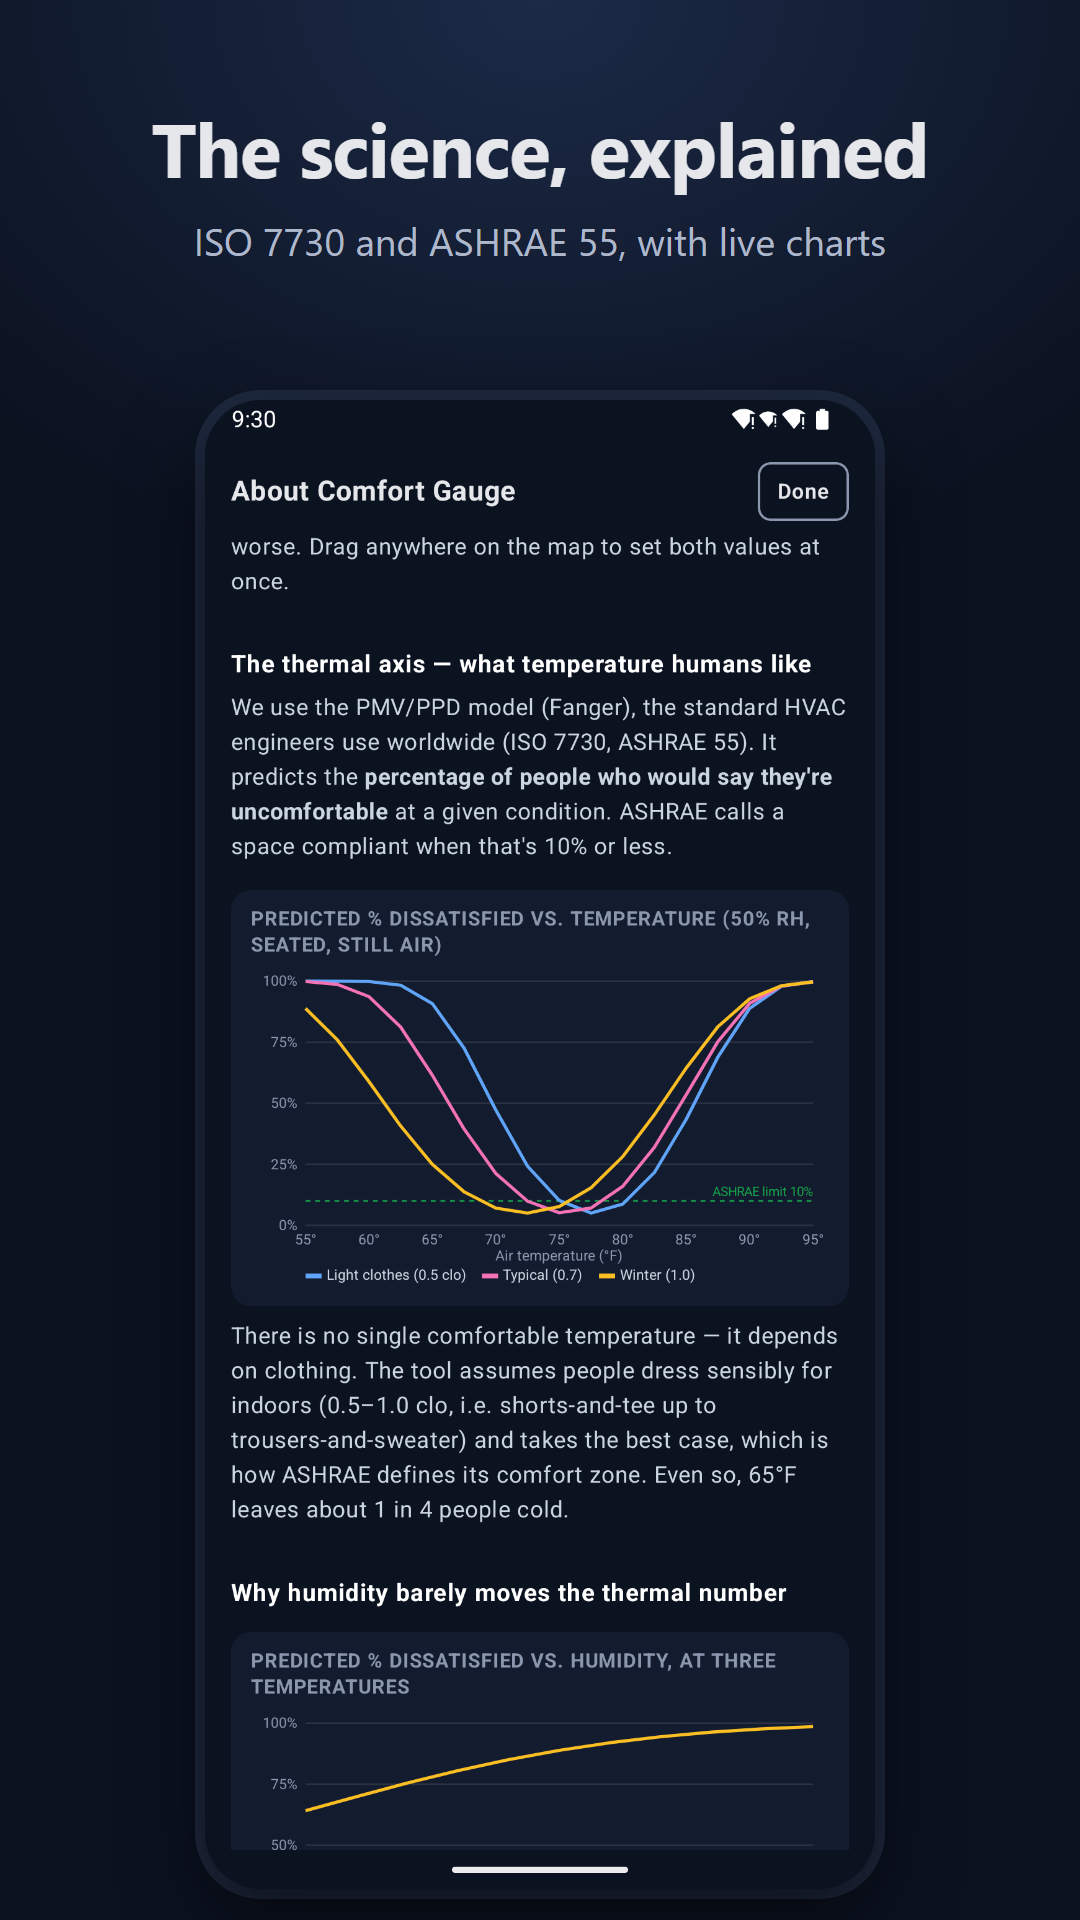
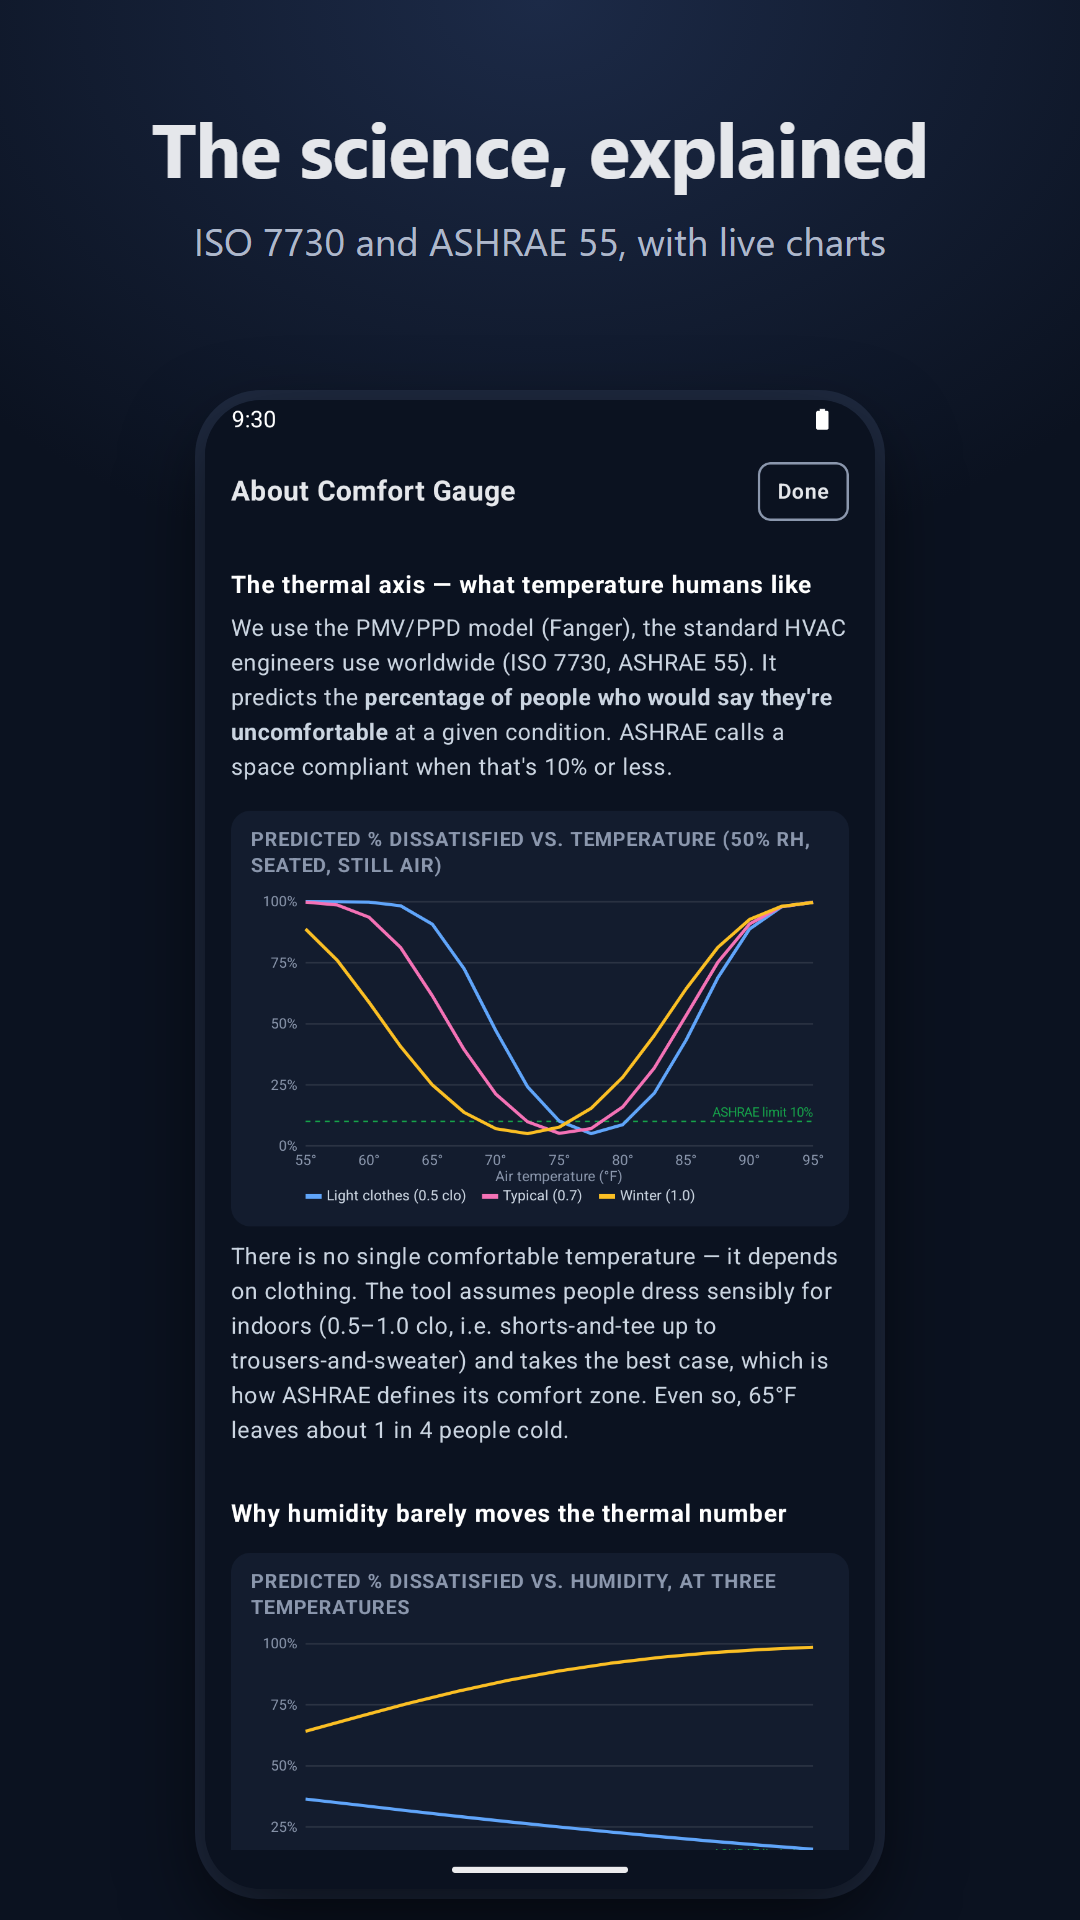
docs: refresh Play screenshots with clean status bar; log listing push
Claude-Session: https://claude.ai/code/session_017Wtmsfcunm6eNnjcT66Z5Y

Changed region(s): [[0.2139, 0.2812, 0.7639, 0.9688], [0.6722, 0.1875, 0.7333, 0.2188]]

diff --git a/_docs/play-publishing-ops-log.md b/_docs/play-publishing-ops-log.md
@@ -45,3 +45,6 @@ Live log of every Play Console / Play API / Cloud operation. Newest at the botto
 | 36 | 2026-10-30 | Play Console | Store settings tags: Weather, Tools, House & home → Apply | Comfort Gauge | ✅ saved |
 | 37 | 2026-10-30 | Play Console | Production track (read) | Comfort Gauge | 🔒 "You don't have access to production yet" |
 | 38 | 2026-10-30 | Play Console | Publishing overview (read) | Comfort Gauge | 15 changes not yet submitted (closed Alpha ×7, listing, content rating, target audience, privacy, ads, data safety, health, category). Quick checks running. **Submit left to Kevin** (classifier blocks the submit click) |
+| 39 | 2026-10-30 | Local | Asset review: icon, feature graphic, splash (`_docs/screens/splash-2.png`), descriptions OK. Screenshots had emulator "!"/satellite status icons, and phone-4 started mid-sentence | Comfort Gauge | Fixed: recaptured all 5 (debug build, demo mode, satellite icons masked), phone-4 starts at the "thermal axis" heading |
+| 40 | 2026-10-30 | Play API | `tools/play_listing.py`: details + listing + icon + feature + 5 phone screenshots (deleteall + upload) → commit | com.root3.comfortgauge | ✅ committed |
+| 41 | 2026-10-30 | Play Console | Open Publishing overview to submit 15 changes | Comfort Gauge | ⛔ connected browser is the destinbeachservice / La Dolce Vita profile (both "Browser 1" and the picked "LDV"). Stopped, not used. Kevin to submit from the Kevin profile |
